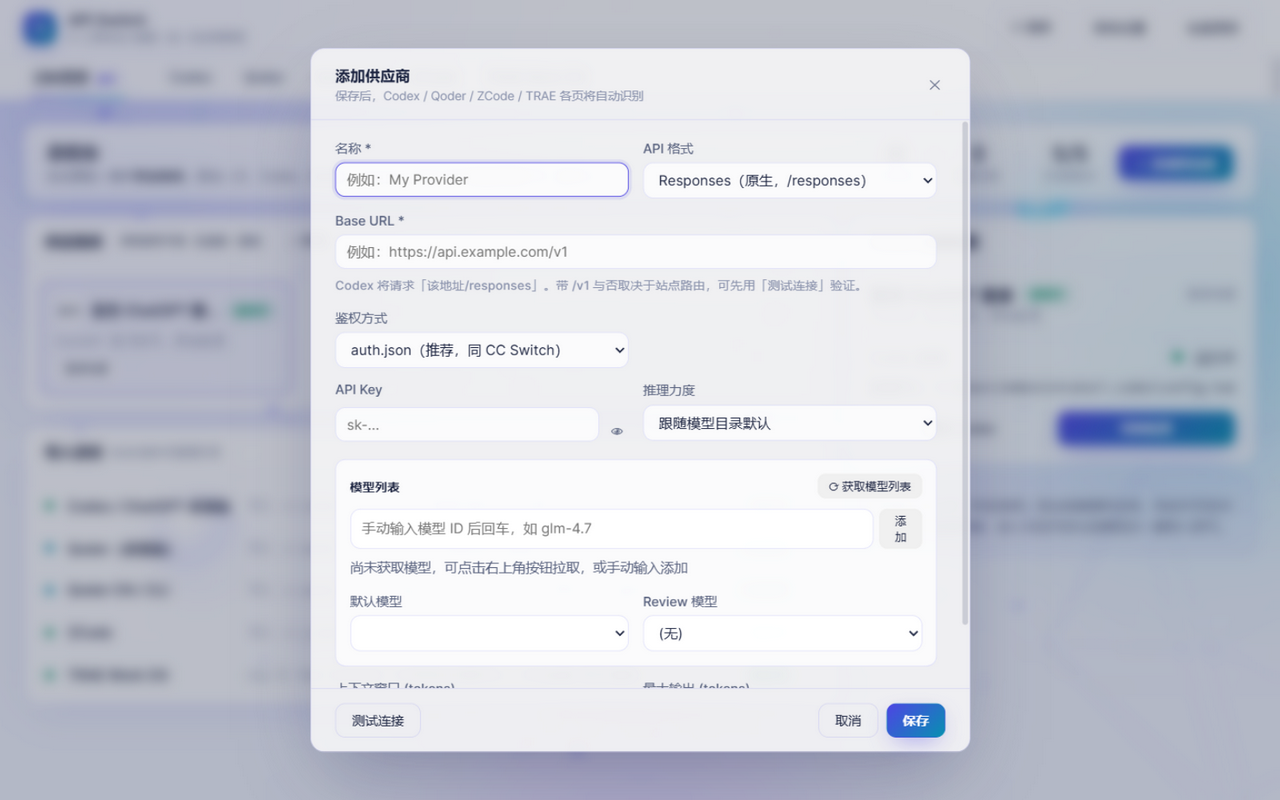
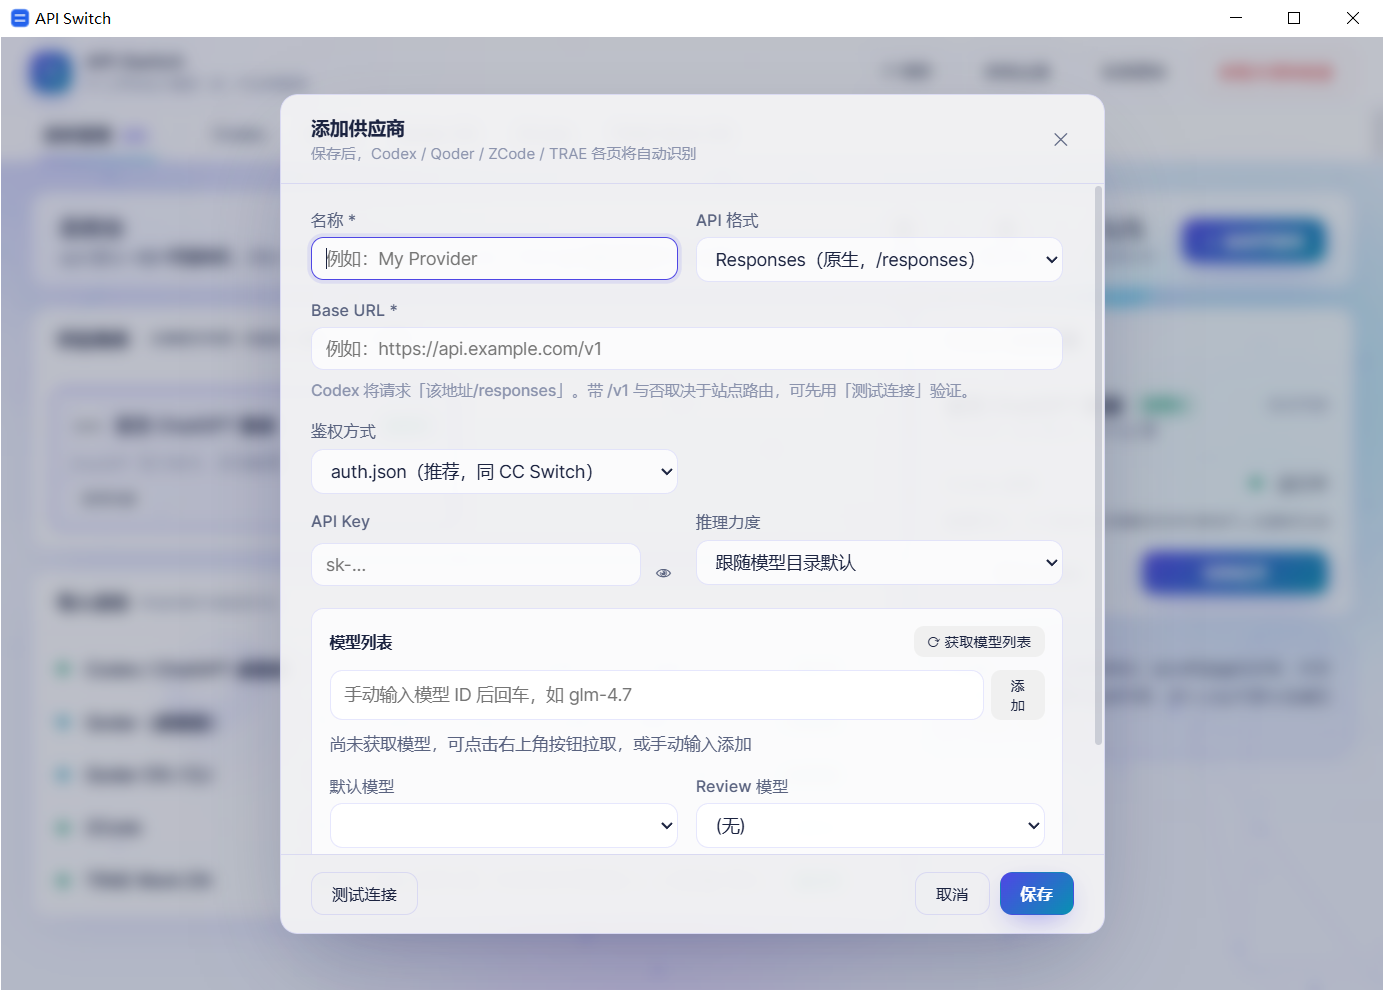
更新了新版本的界面图

diff --git a/README.md b/README.md
@@ -4,15 +4,15 @@
 
 ## 界面预览
 
-**目标管理（首页）**：供应商库统一管理，自动扫描各软件检测状态
+**目标管理（首页）**：总控制台统一管理供应商库，自动扫描各软件检测状态
 
 ![目标管理首页](docs/shots/home.png)
 
-**添加供应商**：一次录入，所有页签共用
+**添加供应商**：一次录入，保存后 Codex / Qoder / ZCode / TRAE 各页自动识别共用
 
 ![添加供应商](docs/shots/add-provider.png)
 
-**Codex 页**：一键切换 / 还原官方登录
+**Codex 页**：自动识别供应商库，一键切换 / 还原官方登录
 
 ![Codex 页](docs/shots/codex.png)
 
